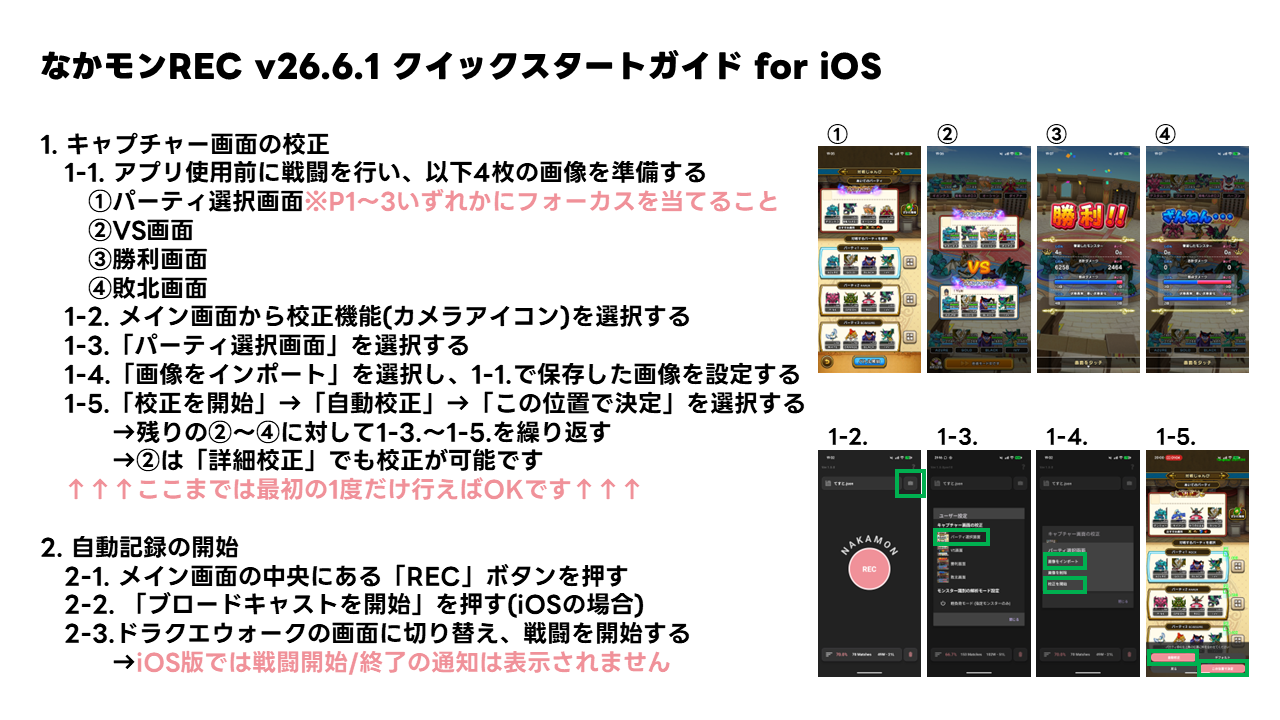
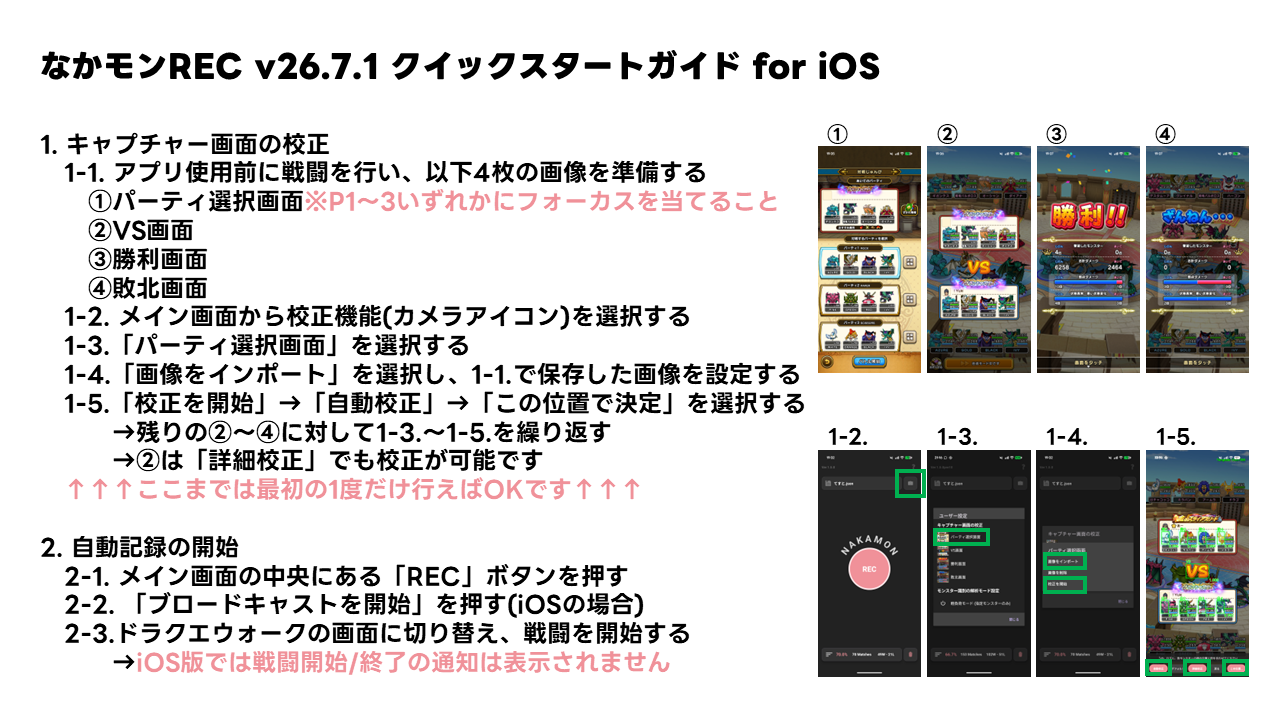
docs: update help slides to v26.7.1
Replace the four help slides (Android/iOS quickstart, records guide,
troubleshooting) with the v26.7.1 versions and bump the help page's
version label.

Changed region(s): [[0.875, 0.6111, 1.0, 0.9472], [0.25, 0.0611, 0.4375, 0.1222], [0.5, 0.0611, 0.6875, 0.1222]]

diff --git a/docs/help.html b/docs/help.html
@@ -65,7 +65,7 @@
 <body>
 
 <h1>なかモンREC ヘルプ</h1>
-<p class="meta">対応バージョン: v26.6.1 / Last updated: 2026-06-26</p>
+<p class="meta">対応バージョン: v26.7.1 / Last updated: 2026-07-11</p>
 
 <p>
   なかモンREC (NakamonREC) の基本操作・トラブルシューティングをまとめたヘルプページです。
